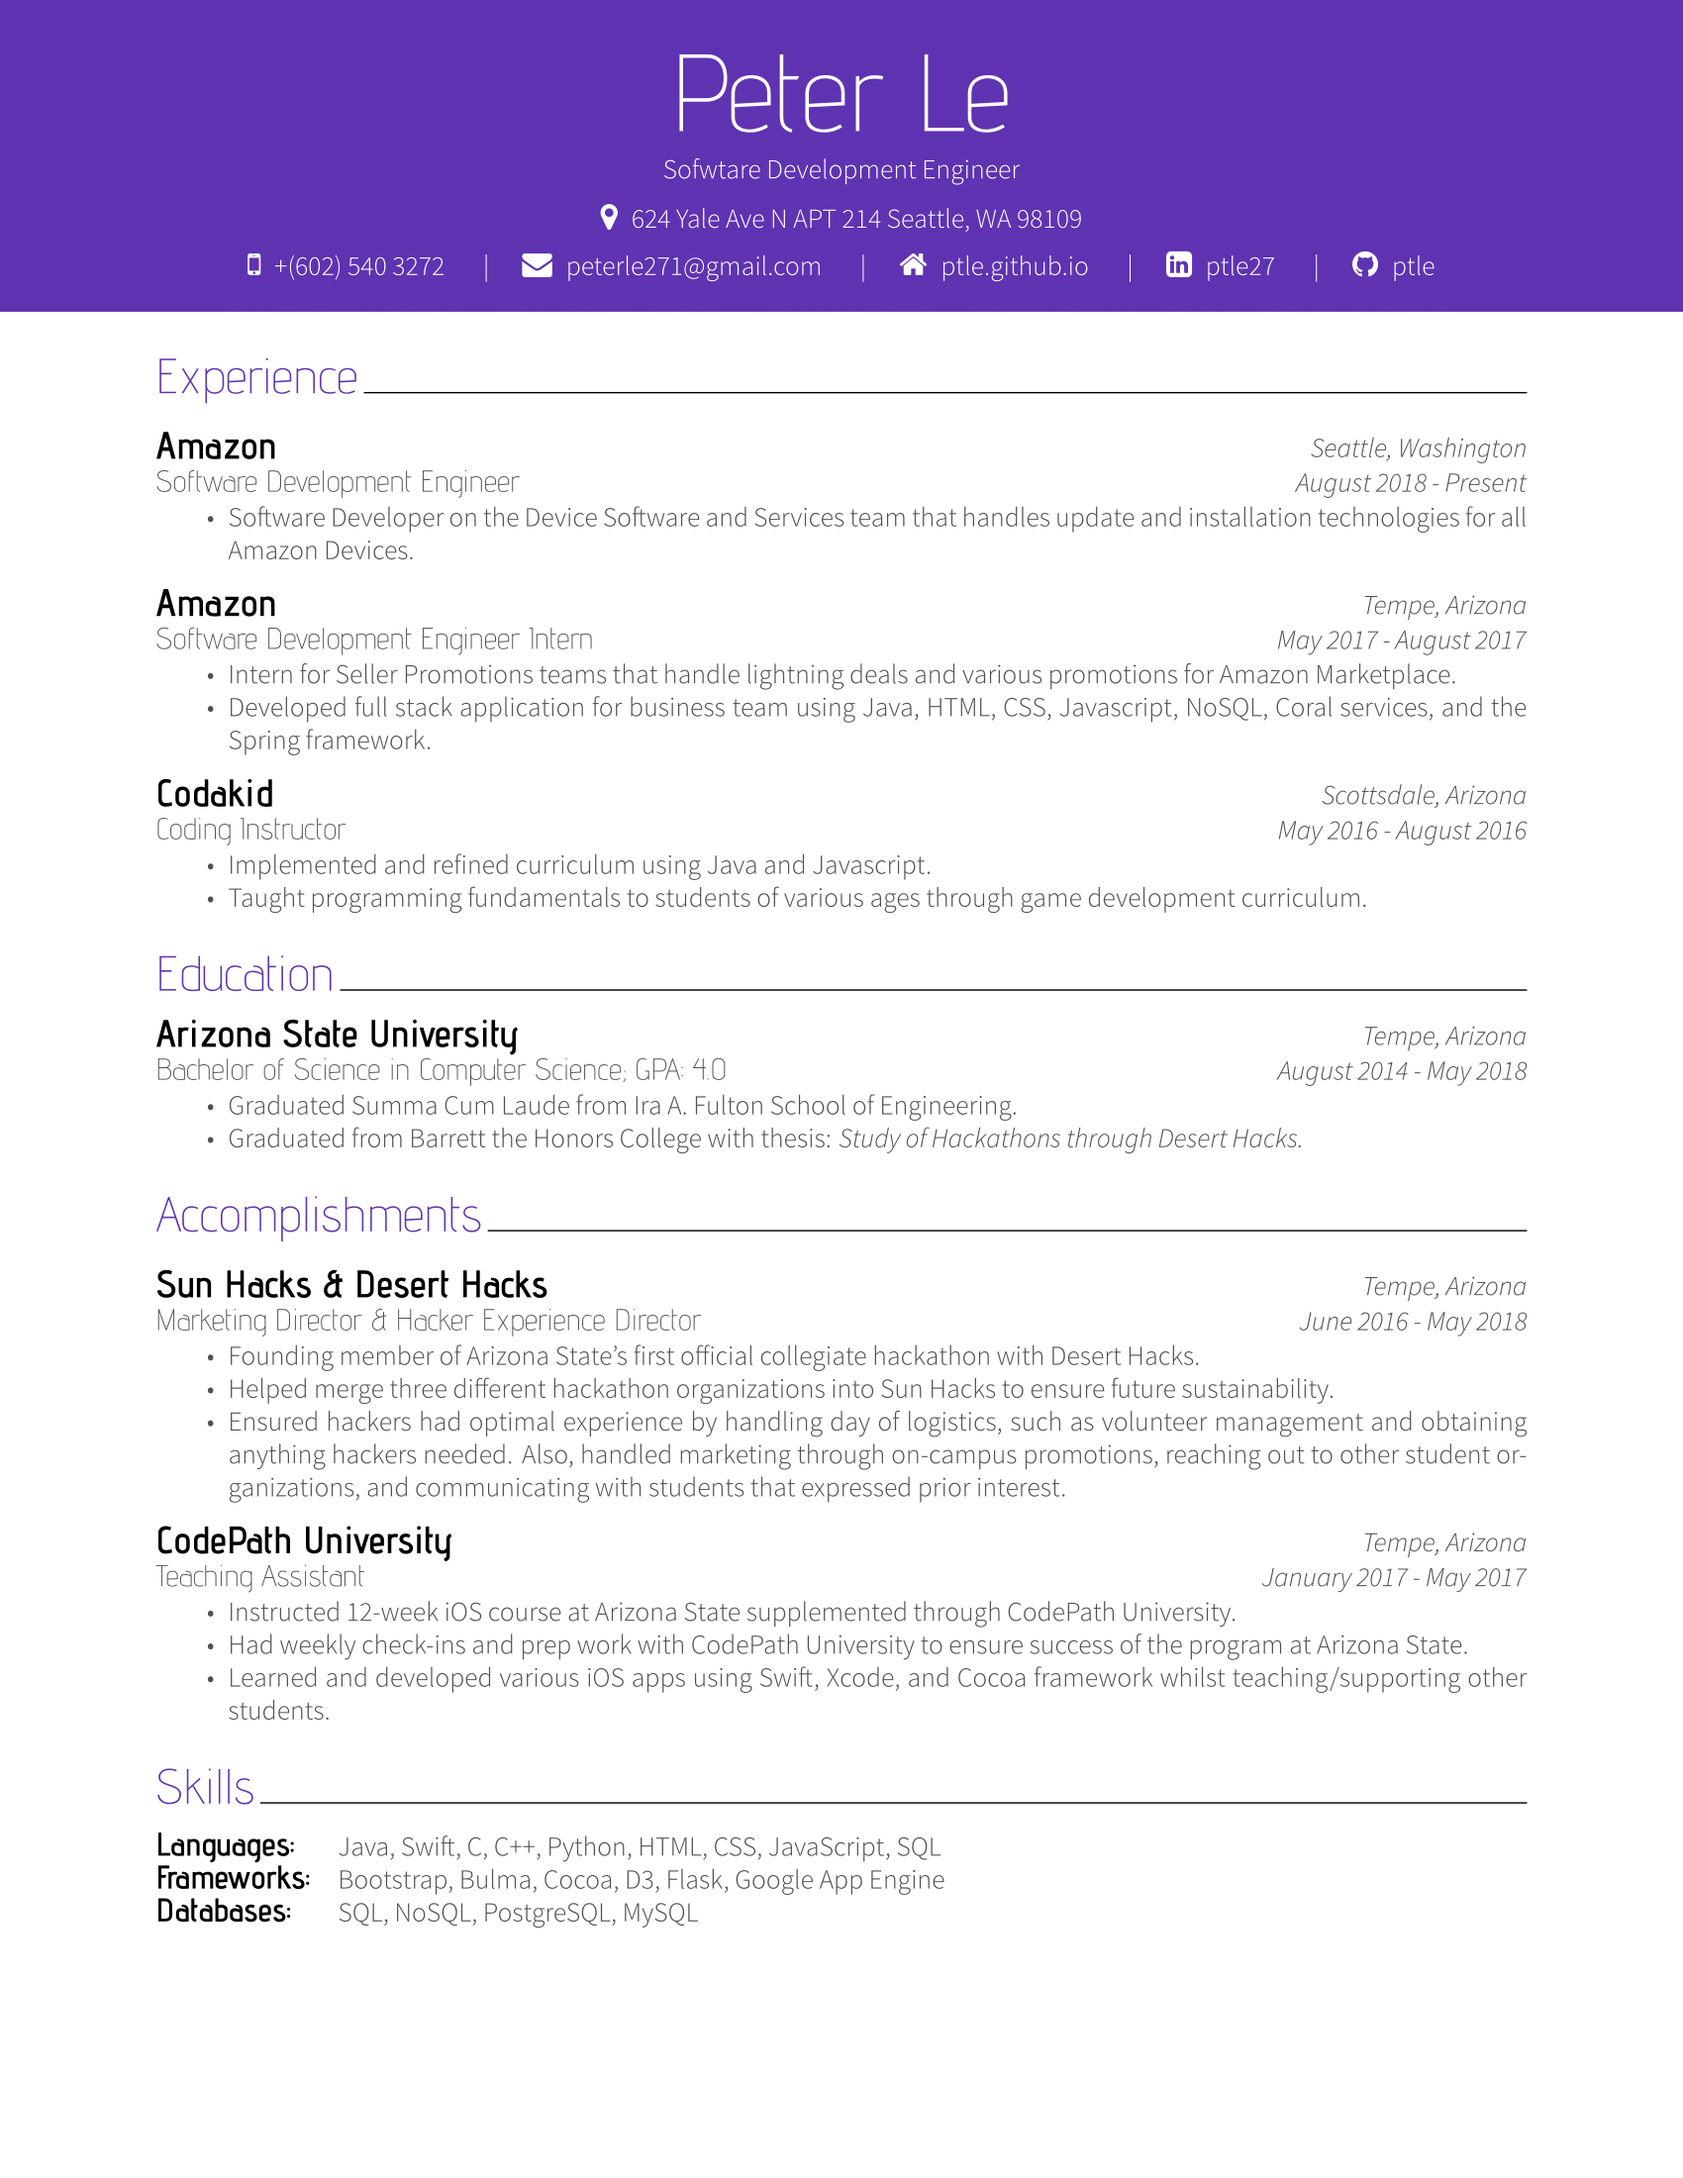
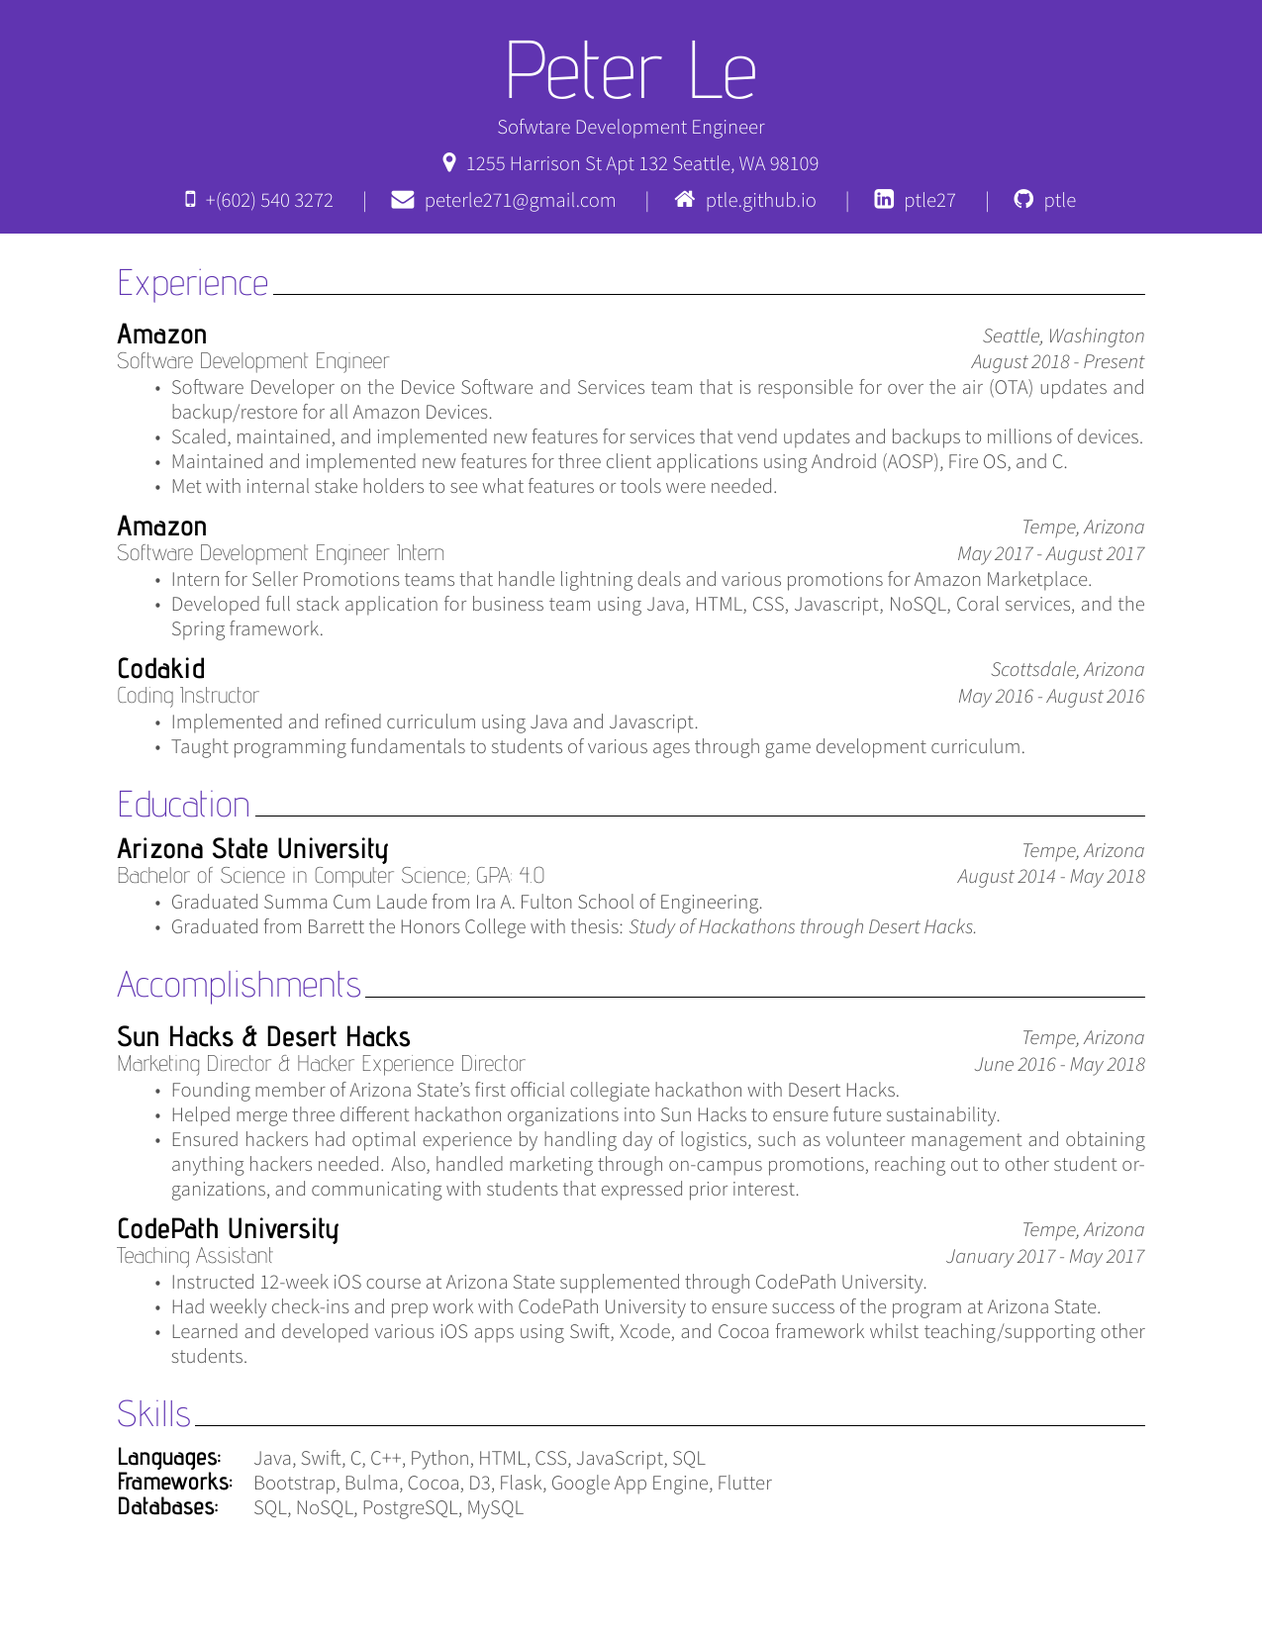
Updated address and experience section

diff --git a/peter-resume.tex b/peter-resume.tex
@@ -14,7 +14,7 @@
 % insert a predefined horizontal space after a font awesome icon icon.
 \header{Peter}{Le}{
   Sofwtare Development Engineer}{
-  \faMapMarker \FAspace 624 Yale Ave N APT 214 Seattle, WA 98109}{
+  \faMapMarker \FAspace 1255 Harrison St Apt 132 Seattle, WA 98109}{
   \faMobile \FAspace +(602) 540 3272 \sep
   \faEnvelope \FAspace peterle271@gmail.com \sep
   \faHome \FAspace ptle.github.io \sep
@@ -29,7 +29,10 @@
   {August 2018 - Present}
   {
     \begin{cvitems}
-      \item {Software Developer on the Device Software and Services team that handles update and installation technologies for all Amazon Devices.}
+      \item {Software Developer on the Device Software and Services team that is responsible for over the air (OTA) updates and backup/restore for all Amazon Devices.}
+      \item {Scaled, maintained, and implemented new features for services that vend updates and backups to millions of devices.}
+      \item {Maintained and implemented new features for three client applications using Android (AOSP), Fire OS, and C.}
+      \item {Met with internal stake holders to see what features or tools were needed.}
     \end{cvitems}
   }
 \cventry
@@ -96,8 +99,8 @@
 
 \cvsection{Skills}
   \begin{cvskills}
-    \cvskill{Languages:}{Java, Swift, C, C++, Python, HTML, CSS, JavaScript, SQL}
-    \cvskill{Frameworks:}{Bootstrap, Bulma, Cocoa, D3, Flask, Google App Engine}
+    \cvskill{Languages:}{Java, Swift, C, C++, Python, HTML, CSS, JavaScript, SQL}	
+    \cvskill{Frameworks:}{Bootstrap, Bulma, Cocoa, D3, Flask, Google App Engine, Flutter}
     \cvskill{Databases:}{SQL, NoSQL, PostgreSQL, MySQL}
   \end{cvskills}
 
